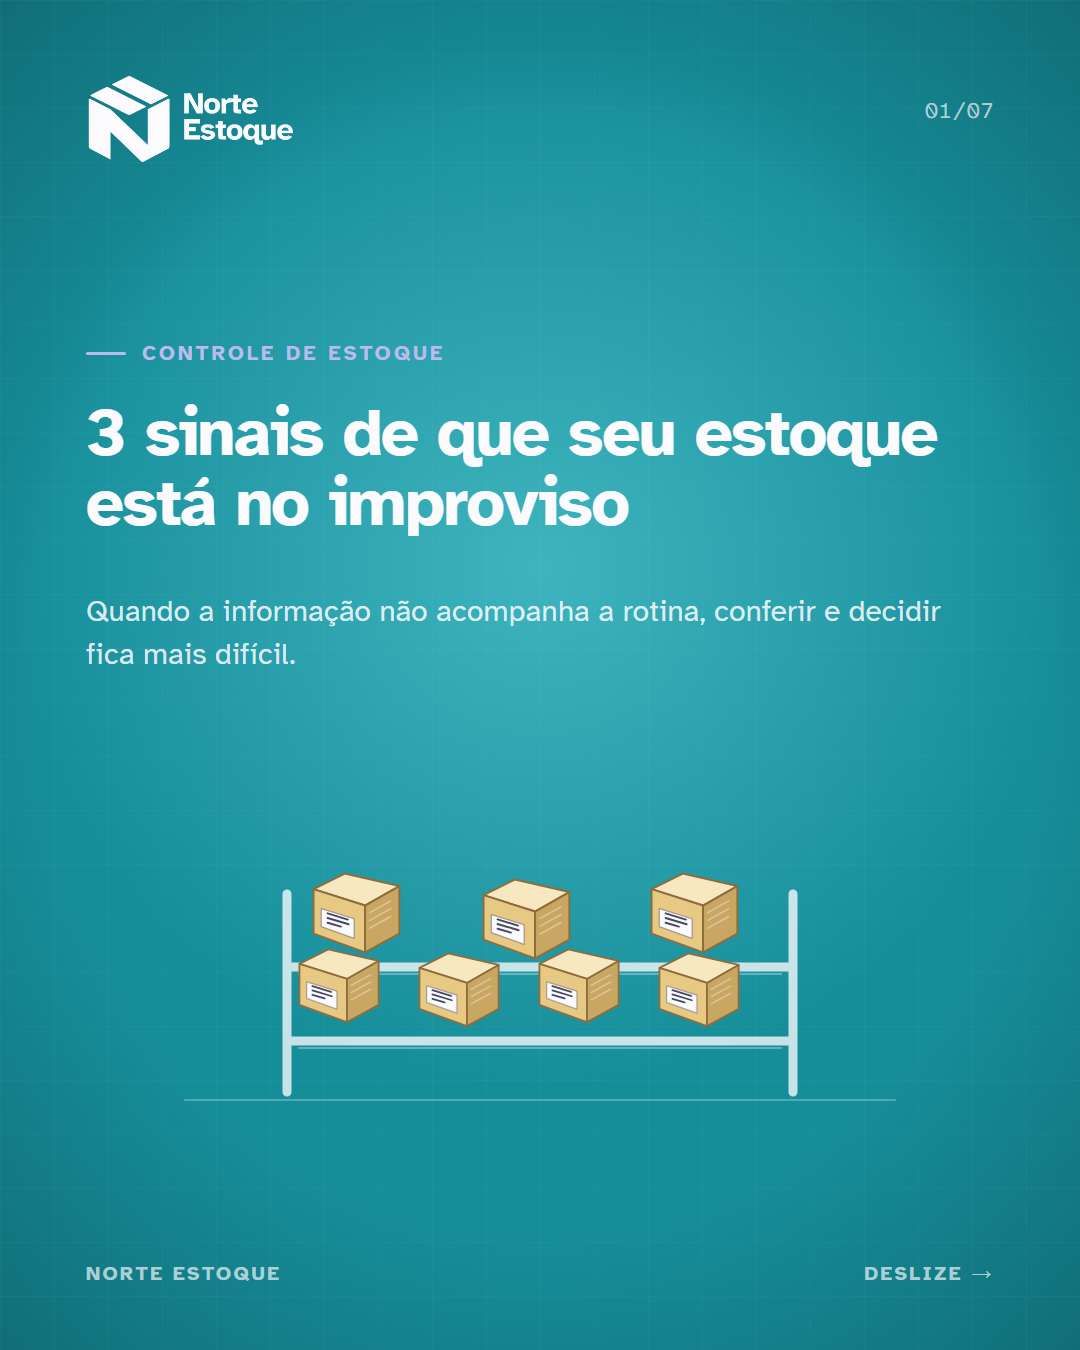
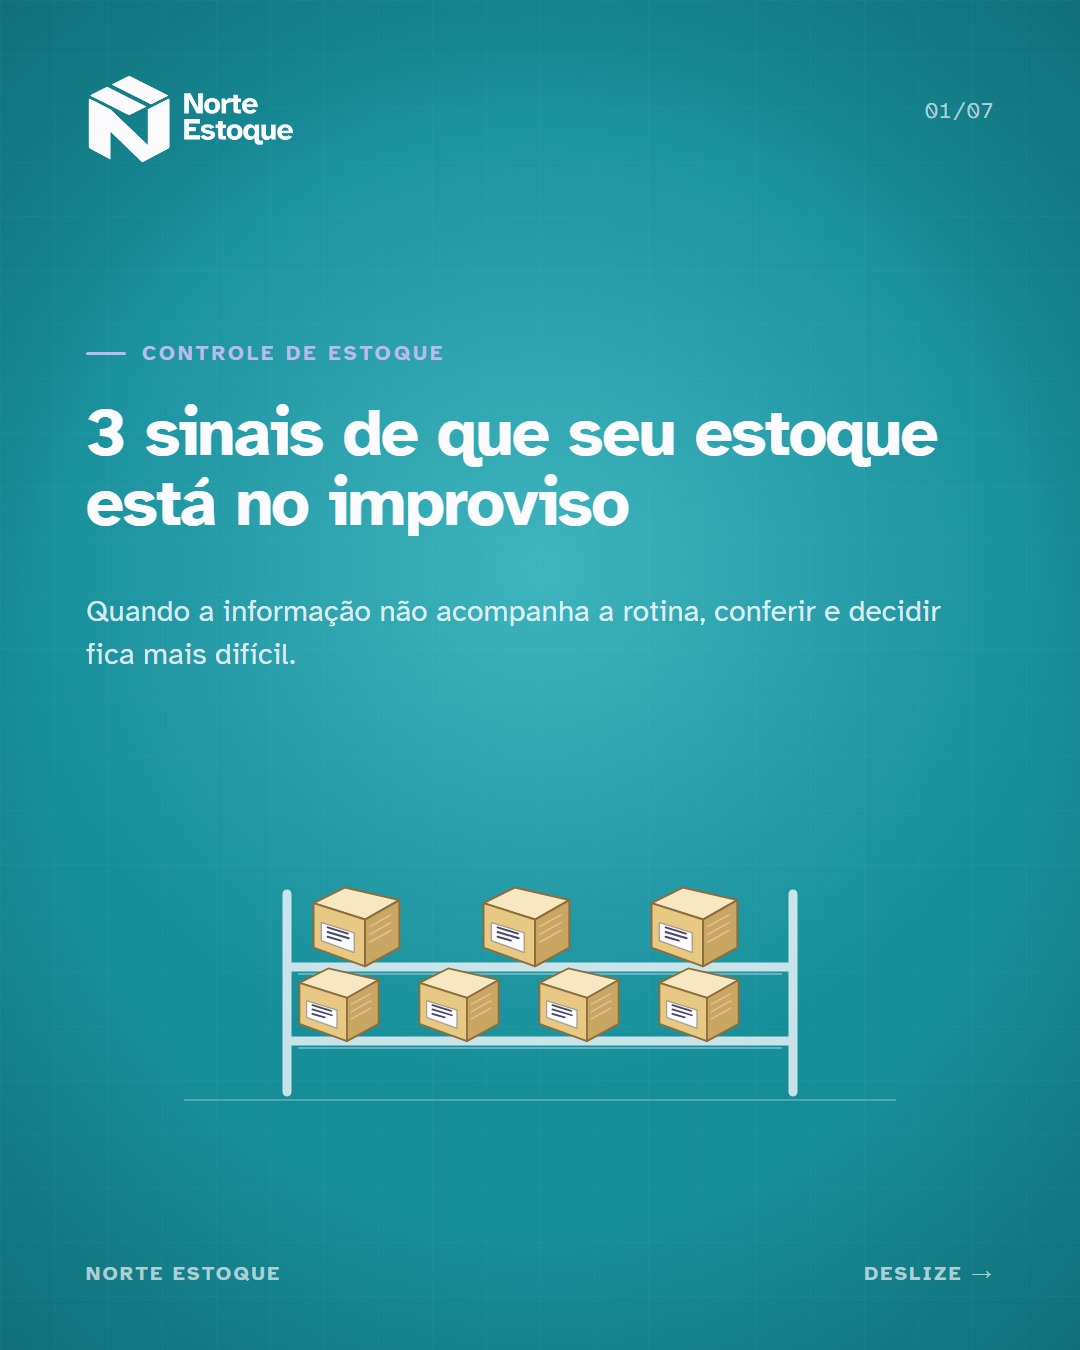
Align Norte Estoque cartons with shelf rails

Changed region(s): [[0.275, 0.6222, 0.7028, 0.7778]]

diff --git a/src/templates/NorteEstoqueSinais.tsx b/src/templates/NorteEstoqueSinais.tsx
@@ -50,13 +50,13 @@ const Cover: React.FC = () => {
             <path d="M74 310H786" stroke="rgba(251,251,254,.25)" strokeWidth="2" />
             <path d="M177 104V302M683 104V302M177 177H683M177 251H683" stroke="rgba(251,251,254,.78)" strokeWidth="9" strokeLinecap="round" />
             <path d="M188 184H672M188 258H672" stroke="rgba(251,251,254,.32)" strokeWidth="2" />
-            <Carton x={202} y={82} scale={0.78} />
-            <Carton x={372} y={88} scale={0.78} />
-            <Carton x={540} y={82} scale={0.78} />
-            <Carton x={188} y={158} scale={0.72} />
-            <Carton x={308} y={162} scale={0.72} />
-            <Carton x={428} y={158} scale={0.72} />
-            <Carton x={548} y={162} scale={0.72} />
+            <Carton x={202} y={96} scale={0.78} />
+            <Carton x={372} y={96} scale={0.78} />
+            <Carton x={540} y={96} scale={0.78} />
+            <Carton x={188} y={177} scale={0.72} />
+            <Carton x={308} y={177} scale={0.72} />
+            <Carton x={428} y={177} scale={0.72} />
+            <Carton x={548} y={177} scale={0.72} />
           </svg>
         </div>
         <Foot tone="product" label="Norte Estoque" />
